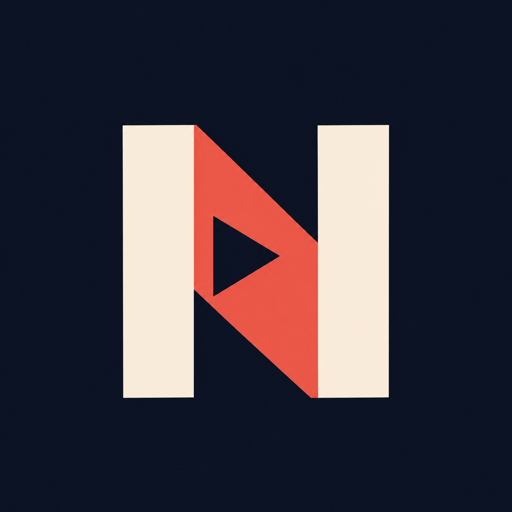
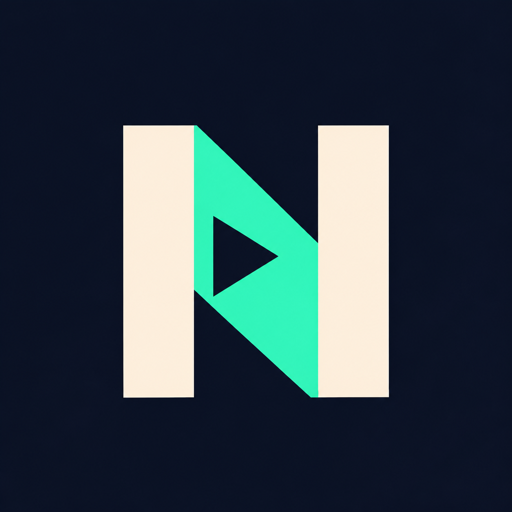
Polish NoStream branding and playback presentation
Use the Aurora mint mark across the PS5 tile, splash artwork, and in-app logo. Remove the startup version toast and clear letterbox bars to black.

diff --git a/projects/evoplayer/media/src/evo_agc_runtime.c b/projects/evoplayer/media/src/evo_agc_runtime.c
@@ -578,6 +578,14 @@ static size_t scanout_tiled_bytes(void)
     return bytes;
 }
 
+static uint32_t scanout_clear_pixel(void)
+{
+    /* Opaque RGB zero in both the HDR and SDR scanout formats. */
+    if (g_agc_dev.is_hdr)
+        return 0xc0000000u;
+    return g_agc_dev.is_player_mode ? 0xff000000u : 0xff100d0du;
+}
+
 /*
  * Copy `height` rows of `row_bytes` from a src pitch to a dst pitch. The dst
  * rows start 16-byte aligned (every staging pitch here is 256-byte aligned),
@@ -1805,13 +1813,7 @@ void evo_agc_runtime_frame_begin(void)
             /* Streamed, not stored-then-flushed: this is the single biggest
              * CPU cost in the menus - 8.3 MB a frame at 1080p, 33 MB at 4K.
              * See evo_agc_runtime_stream_fill. */
-            /* 0xff100d0d is dark grey only as 8-bit BGRA. On a 10:10:10:2
-             * HDR scanout those bits would light one channel near full, so
-             * HDR clears to black with opaque alpha. */
-            evo_agc_runtime_stream_fill(backbuffer,
-                                        g_agc_dev.is_hdr ? 0xc0000000u
-                                        : g_agc_dev.is_player_mode ? 0xff000000u /* true-black letterbox */
-                                                                   : 0xff100d0du,
+            evo_agc_runtime_stream_fill(backbuffer, scanout_clear_pixel(),
                                         scanout_tiled_bytes());
         }
     }
@@ -2474,12 +2476,12 @@ void evo_agc_runtime_set_player_mode(int is_player)
     g_agc_dev.last_video_trc = -1;
     evo_agc_motion_smoothing_reset();
     if (is_player) {
-        /* Clear both scanout buffers once upon entering player mode so letterbox borders are dark */
+        /* The video quad leaves the bars untouched, so start both buffers at black. */
+        const uint32_t black = scanout_clear_pixel();
         for (int b = 0; b < 2; ++b) {
             uint32_t *buf = (uint32_t *)g_agc_dev.scanout_buffers[b];
             if (buf) {
-                evo_agc_runtime_stream_fill(buf, g_agc_dev.is_hdr ? 0xc0000000u : 0xff100d0du,
-                                            scanout_tiled_bytes());
+                evo_agc_runtime_stream_fill(buf, black, scanout_tiled_bytes());
             }
             g_agc_dev.video_pts[b] = INT64_MIN;
         }

diff --git a/projects/evoplayer/core/src/Application.cpp b/projects/evoplayer/core/src/Application.cpp
@@ -467,9 +467,6 @@ bool Application::initServices() {
     m_fileSystemBrowser->setSortFoldersFirst(m_settingsService->isSortFoldersFirst());
     m_fileSystemBrowser->loadLastFolder();
 
-    toast("NoStream", (EVO_PLAYER_VERSION[0] == 'v' || EVO_PLAYER_VERSION[0] == 'V')
-                         ? EVO_PLAYER_VERSION
-                         : ("v" EVO_PLAYER_VERSION));
     return true;
 }
 
